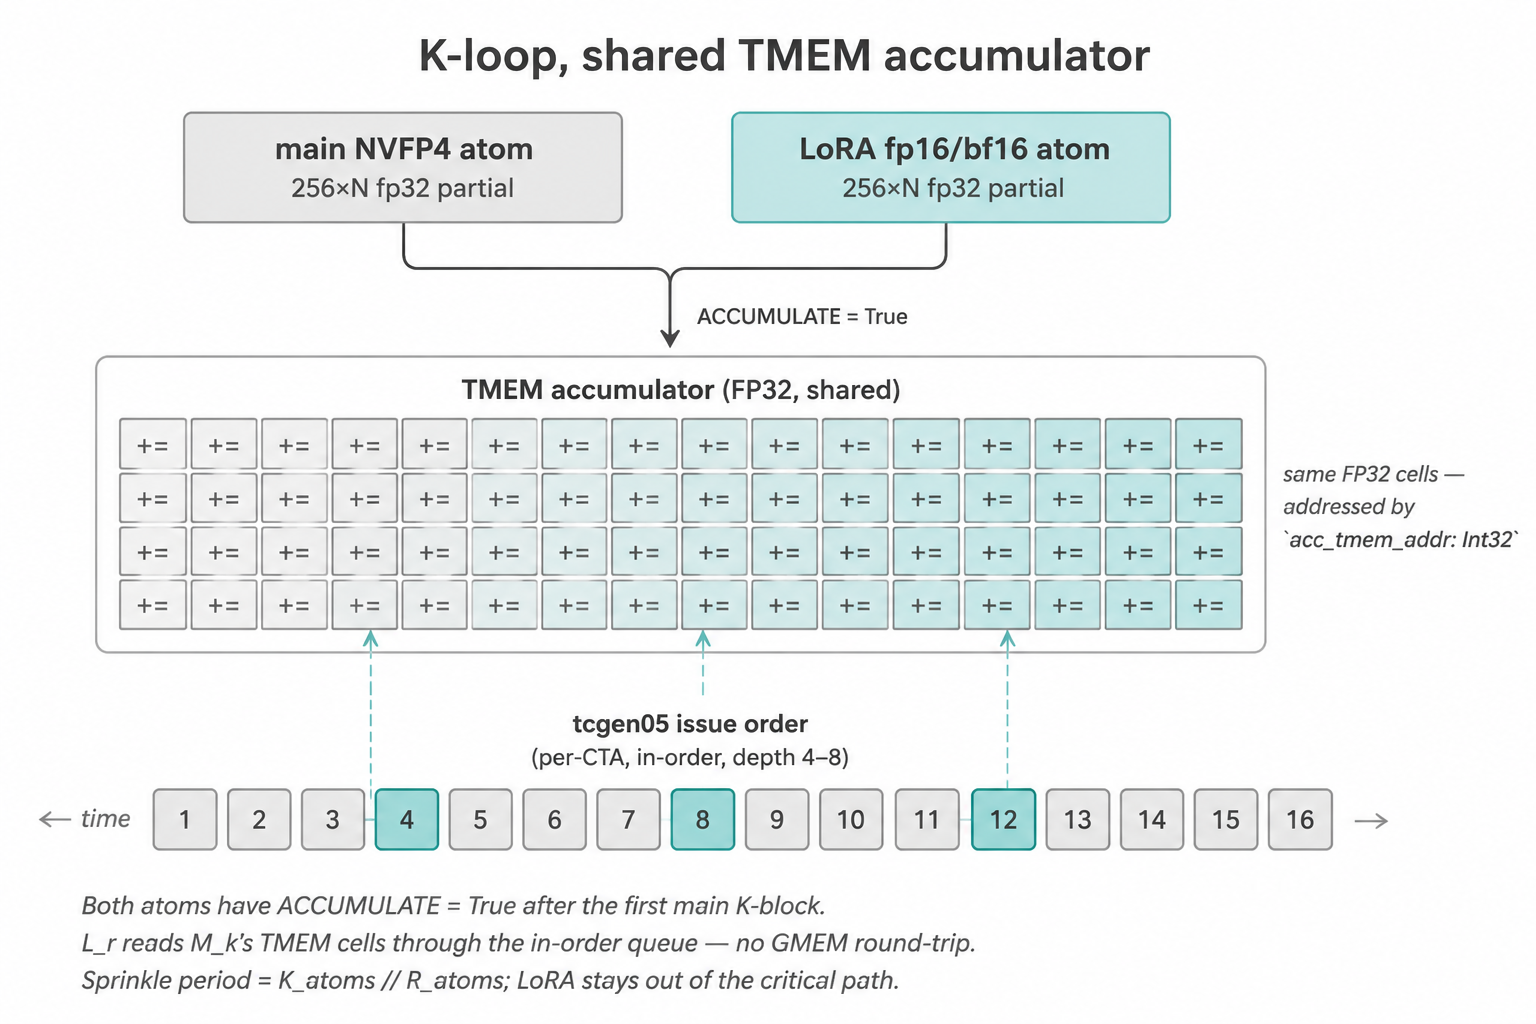
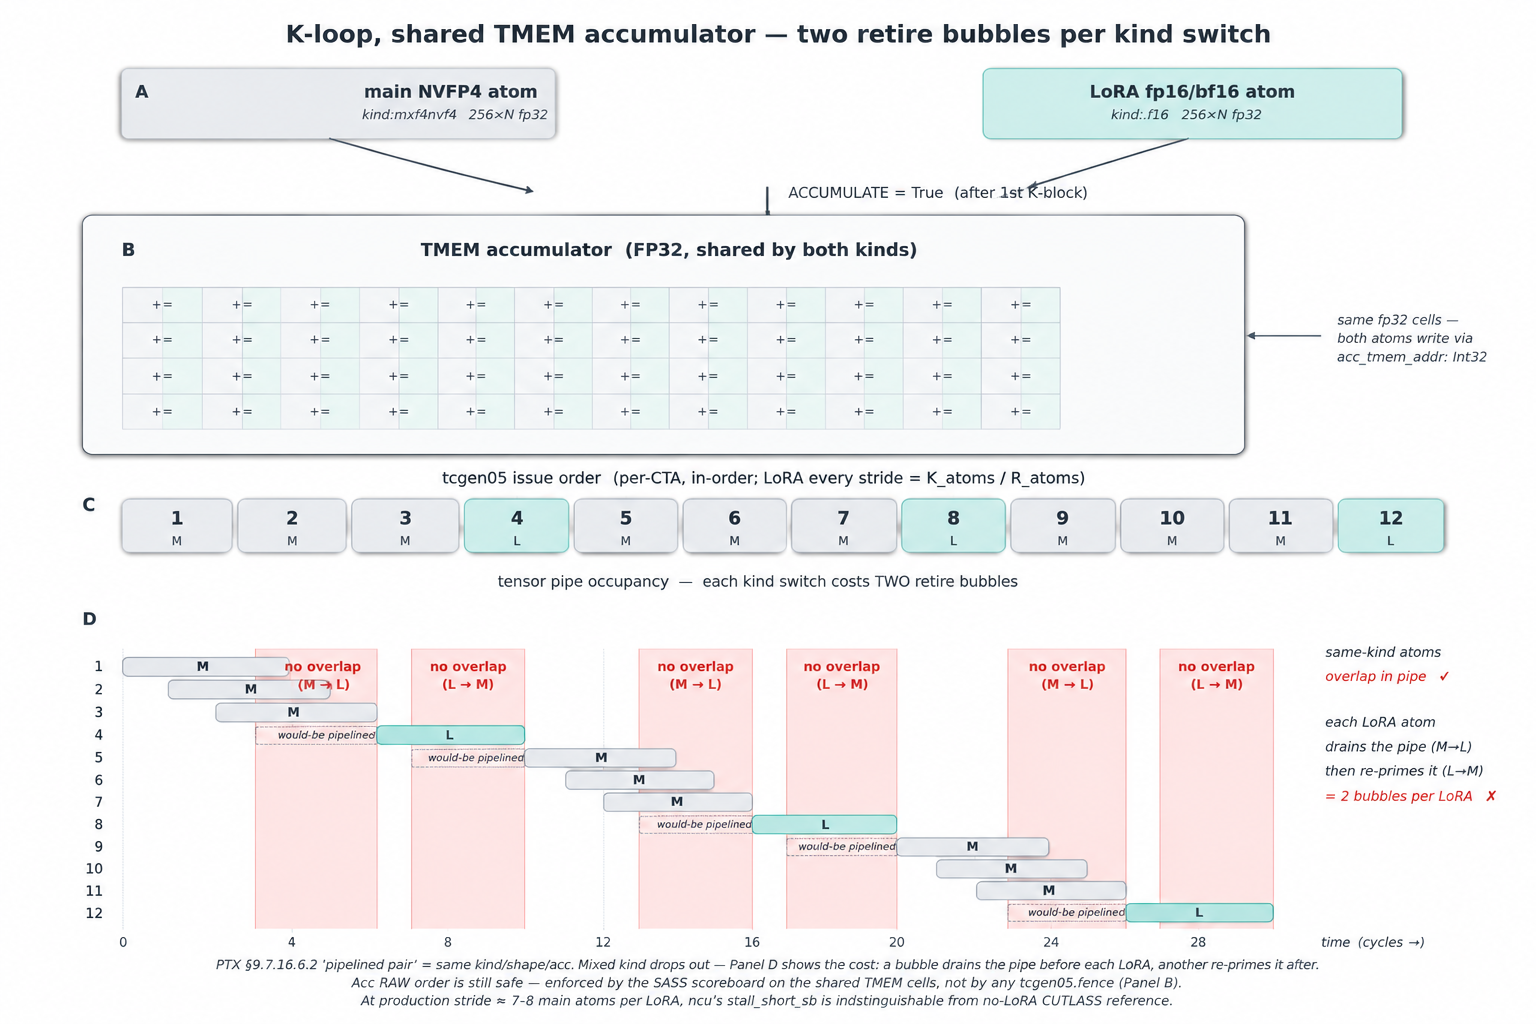
docs(blog): correct §6.3 ordering claim; redraw β figure
§6.3 used to attribute mixed-kind-MMA ordering to "per-CTA in-order
tcgen05 issue queue" — wrong root cause. Cubin disasm shows it's the
SASS scoreboard tracking the shared TMEM acc RAW dependency that
serializes UTCHMMA after UTCOMMA. PTX §9.7.16.6.2's "pipelined pair"
only governs tensor-pipe overlap, not retire ordering. New paragraph
quantifies the real cost: loss of overlap = 2 retire bubbles per LoRA
injection; ncu's stall_short_sb shows no aggregate delta vs CUTLASS
reference at production stride.

Figure redrawn: framed shared TMEM acc, numbered issue queue (1-12),
new tensor-pipe timeline panel where same-kind atoms overlap and each
LoRA atom is flanked by pink "no overlap" bands on BOTH sides
(M→L drain + L→M re-prime), with ghost bars showing the would-be
pipelined positions. Built programmatically (matplotlib base under
tmp/, gitignored) then restyled via the OpenAI images/edits endpoint
— geometry is reproducible from the source script.

diff --git a/docs/blog/2026-05-13-svdquant-w4a4-blackwell.zh.md b/docs/blog/2026-05-13-svdquant-w4a4-blackwell.zh.md
@@ -464,9 +464,18 @@ LoRA 校正项 `lora_act_in @ lora_up` 很小（R ≤ 128）。如果和主 MMA 
 
 机制立在三条 Blackwell 事实上：
 
-1. **`tcgen05` 发射队列在每 CTA 内顺序**。后入队的 atom 看得到先入队
-   atom 的效果。所以排在主 atom *k* 之后的 LoRA atom 能看到主 atom *k*
-   的 TMEM 写入。
+1. **`tcgen05` 在 SASS scoreboard 这一层尊重累加器的 RAW 依赖**。两条
+   atom 写同一组 TMEM cell；`ptxas` 把这识别为数据依赖，在指令控制字
+   里发出 scoreboard write/wait 编码，LoRA atom 的 `UTCHMMA` 必然要等
+   前一条主 `UTCOMMA` retire 后才完成。不需要软件 fence。（这条值得
+   单独点出来，因为 PTX 手册 9.7.16.6.2 给的 "pipelined pair" 集合
+   要求 `kind`/shape/acc 都同 —— 我们这对 kind 不同，落在集合外；粗
+   读容易解读成"切 kind 要插 `tcgen05.fence`"，**其实不需要**。pair
+   规则约束的是两条 atom 能否在 tensor pipe 里**重叠流水**，不是它
+   们对共享 acc 的写是否保持顺序；顺序由 PTX 之下一层的 SASS scoreboard
+   保证。对着 cubin 验过：PTX 里 0 个 `tcgen05.fence`，SASS 里
+   `UTCOMMA`/`UTCHMMA` 之间 0 个 `FENCE.*`；CUTLASS 上游也是同套
+   模型。）
 2. **两条 atom 可以打到同一个 TMEM 地址**。通过
    `gemm_ptx_partial(acc_tmem_addr: Int32)`，两条 atom 写到同一组
    FP32 累加器 cell。不需要 `cute.Tensor` 别名套路（v1 走的别名路；
@@ -478,12 +487,20 @@ LoRA 校正项 `lora_act_in @ lora_up` 很小（R ≤ 128）。如果和主 MMA 
    引用；原始校验通过 `cute_kernels/gemm_w4a4/verify_tmem_layout.py` 在 bring-up 期跑，
    `1SM 128×256` 和 `2SM 256×256` 都验过）。
 
+真正付的代价是 kind 切换边界丢掉流水重叠 —— LoRA atom 和它两侧的主
+atom 不能在 tensor pipe 里并发，只能串行。在生产密度下看不见（R=128
+时大约每 `stride = K_atoms / R_atoms` ≈ 7–8 个主 atom 才撒一个 LoRA）：
+能抓到这件事的指标 `stall_short_sb` 在 v2 上测出来 0.42 cyc/inst，
+和 CUTLASS 不带 LoRA 的 0.55 没区别（`log/ncu_summary.md`）。反过来
+如果不共享 acc —— 主 MMA 和 LoRA 写两份独立累加器再合并 —— 每个 tile
+要多走一次 TMEM-load + TMEM-store，代价远高于这几拍丢掉的重叠。
+
 interleave pattern 本身就是 K-loop 主 atom 每次多一个分支。
 `stride = K_atoms // R_atoms` 控制 LoRA atom 多久发一次；`r_next` 和
 `next_lora_at` 跟踪当前哪个 LoRA atom 上场、下次发在哪。源码在
 `kernel_v2_fa4.py:1309-1376`：
 
-![β-interleave：LoRA atom 撒进主 K-loop，靠每 CTA 顺序 tcgen05 发射队列打到同一块 TMEM 区](figures/beta_interleave_zh.png)
+![β-interleave：(A) 主 NVFP4 atom 和 LoRA fp16/bf16 atom 都通过 `acc_tmem_addr: Int32` 打到 (B) 同一块 FP32 TMEM 累加器（加粗框出的共享块）；(C) tcgen05 发射顺序里每个 atom 都编号 —— 主在 1/2/3/5/6/7/9/10/11、LoRA 每 `stride = K_atoms/R_atoms` 撒一个在 4/8/12；(D) tensor pipe 时间线显示同 kind 的 atom 互相重叠（1↔2↔3），但每次 LoRA 注入要付**两个** retire 气泡 —— 每个 LoRA 两侧各一条粉色"无重叠"带（主→LoRA 抽干 pipe、LoRA→主 重新填满）；幻影条标出如果能流水的话该 atom 本应在哪](figures/beta_interleave_zh.png)
 
 值得理解的 MLIR trace 细节：`tiled_mma.set(tcgen05.Field.ACCUMULATE,
 ...)` 是 **Python trace 期对对象的修改**。每个 `cute.gemm` 调用点在

diff --git a/docs/blog/2026-05-13-svdquant-w4a4-blackwell.md b/docs/blog/2026-05-13-svdquant-w4a4-blackwell.md
@@ -545,9 +545,20 @@ LoRA.
 
 The mechanism rides on three Blackwell facts:
 
-1. **`tcgen05` issue queue is per-CTA in-order.** Atoms enqueued
-   later observe the effects of atoms enqueued earlier. So a LoRA
-   atom enqueued after main atom *k* sees main atom *k*'s TMEM write.
+1. **`tcgen05` honors the accumulator's RAW dependency at SASS-
+   scoreboard level.** Both atoms write the same TMEM cells; `ptxas`
+   marks that as a data dependency and emits the scoreboard
+   write/wait bits in each instruction's control word, so the LoRA
+   atom's `UTCHMMA` retires only after the preceding main `UTCOMMA`.
+   No software fence required. (Worth flagging because the PTX
+   manual's §9.7.16.6.2 — "pipelined pair" requires same
+   `kind`/shape/acc — reads as if a mixed-kind pair like ours needs a
+   `tcgen05.fence`. It doesn't. That rule is about whether two atoms
+   can **overlap in the tensor pipe**, not whether their writes to a
+   shared accumulator stay in order; ordering lives one level below
+   PTX. Confirmed against the cubin: zero `tcgen05.fence` in PTX,
+   zero `FENCE.*` between `UTCOMMA`/`UTCHMMA` in SASS; CUTLASS
+   upstream is identical.)
 2. **Two atoms can target the same TMEM address.** Via
    `gemm_ptx_partial(acc_tmem_addr: Int32)`, both atoms write to the
    same FP32 accumulator cells. No `cute.Tensor` alias trick required
@@ -561,12 +572,24 @@ The mechanism rides on three Blackwell facts:
    `cute_kernels/gemm_w4a4/verify_tmem_layout.py` during bring-up, both for
    `1SM 128×256` and `2SM 256×256`).
 
+What we *do* pay is loss of pipeline overlap at the kind-switch
+boundary — the LoRA atom serializes against its two neighboring main
+atoms instead of overlapping with them in the tensor pipe.
+Invisible at production density (one LoRA per `stride = K_atoms /
+R_atoms` ≈ 7–8 main atoms at R=128): `stall_short_sb` — the
+scoreboard stall that would catch it — measures 0.42 cyc/inst on
+v2, indistinguishable from the no-LoRA CUTLASS reference at 0.55
+(`log/ncu_summary.md`). The alternative — keeping main and LoRA on
+*separate* accumulators and merging later — would add a TMEM-load
+plus a TMEM-store per tile, which dwarfs the few cycles of overlap
+we give up.
+
 The interleave pattern itself is one extra branch per main atom in
 the K-loop. `stride = K_atoms // R_atoms` controls how often a LoRA
 atom fires; `r_next` and `next_lora_at` track which LoRA atom is up
 and when. Source at `kernel_v2_fa4.py:1309-1376`:
 
-![β-interleave: LoRA atoms sprinkled into the main K-loop hit the same TMEM region via the per-CTA in-order tcgen05 issue queue](figures/beta_interleave_en.png)
+![β-interleave: (A) main NVFP4 atom and LoRA fp16/bf16 atom both target (B) the same FP32 TMEM acc (framed, shared block) via `acc_tmem_addr: Int32`; (C) tcgen05 issue order numbers each atom — main at 1/2/3/5/6/7/9/10/11, LoRA at 4/8/12 every `stride = K_atoms/R_atoms`; (D) tensor-pipe timeline shows same-kind atoms overlap (1↔2↔3), but each LoRA injection costs TWO retire bubbles — pink "no overlap" bands flanking each LoRA on both sides (M→L drains the pipe, L→M re-primes it); ghost bars mark where the next atom would have run under same-kind pipelining](figures/beta_interleave_en.png)
 
 The MLIR-tracing detail worth understanding: `tiled_mma.set(
 tcgen05.Field.ACCUMULATE, ...)` is a **Python trace-time mutation**.
